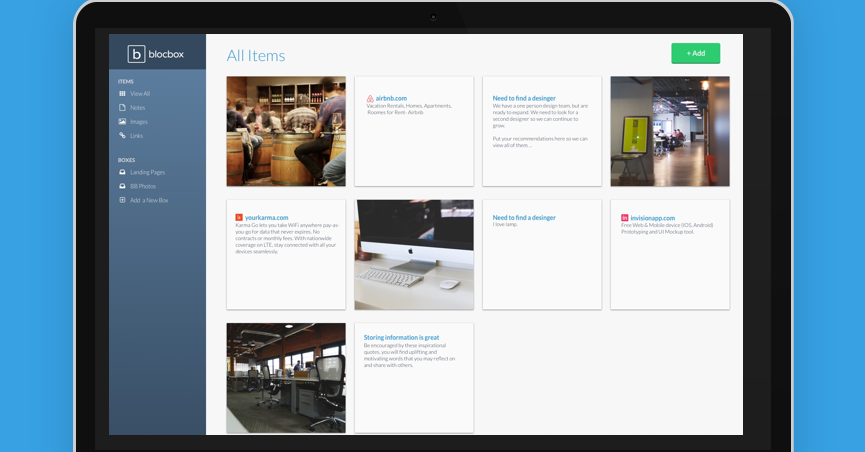
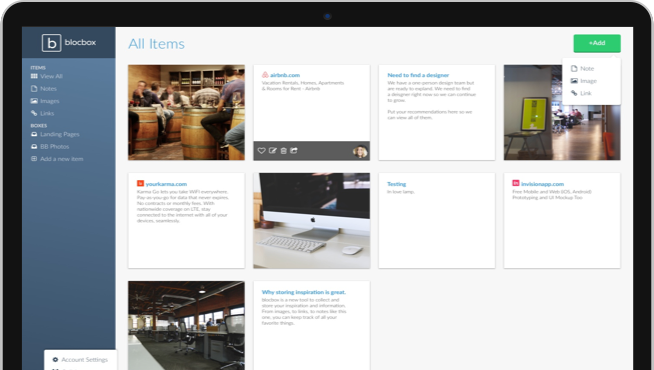
Checkpoint 32 completed

diff --git a/dashboard.html b/dashboard.html
@@ -1,0 +1,115 @@
+<!DOCTYPE html>
+ <html lang="en-us">
+ <head>
+   <meta http-equiv="X-UA-Compatible" content="IE=Edge">
+   <meta name="viewport" content="width=device-width, initial-scale=1">
+   <meta charset="UTF-8">
+
+   <title>Dashboard | Blocbox</title>
+
+   <!-- Google Fonts -->
+   <link href='http://fonts.googleapis.com/css?family=Lato:300,400,700,300italic,400italic,700italic|Varela+Round' rel='stylesheet' type='text/css'>
+
+   <!-- CSS -->
+   <link rel="stylesheet" href="css/normalize.css">
+   <link rel="stylesheet" href="css/style.css">
+   <link rel="stylesheet" href="css/font-awesome.css">
+
+ </head>
+ <body class="dashboard">
+   <!-- LEFT NAV -->
+   <nav id="left-nav" class="left-nav">
+     <a href="#" class="Site-Logo"><img src="images/Site-Logo.png" /></a>
+     <div class="items">
+       <p>Items</p>
+       <ul>
+         <li><a href="#"><i class="fa fa-th-large"></i> All Items</a></li>
+         <li><a href="#"><i class="fa fa-file-o"></i> Notes</a></li>
+         <li><a href="#"><i class="fa fa-picture-o"></i> Images</a></li>
+         <li><a href="#"><i class="fa fa-link"></i> Links</a></li>
+       </ul>
+       <p>Boxes</p>
+       <ul>
+         <li><a href="#"><i class="fa fa-inbox"></i> Landing Pages</a></li>
+         <li><a href="#"><i class="fa fa-inbox"></i> BB Photos</a></li>
+         <li><a href="#"><i class="fa fa-plus-square-o"></i> Add a new box</a></li>
+       </ul>
+     </div>
+     <div class= "settings">
+        <img src="https://s3.amazonaws.com/uifaces/faces/twitter/jsa/128.jpg">
+        <p> Joey Kirk </p>
+        <a href="#"><i class="fa fa-cog"></i></a>
+      </div>
+   </nav>
+   <main role="main">
+  <!-- Benefits -->
+  <section class="content">
+    <div class="container">
+      <div class="header">
+        <h1>All Items</h1>
+        <a href="#" class="btn">+ Add</a>
+      </div>
+    </div>
+    <div class="container">
+      <div class="content-item">
+        <div class="item-box">
+          <img src="https://static.pexels.com/photos/337142/pexels-photo-337142.jpeg">
+        </div>
+      </div>
+      <div class="content-item">
+        <div class="item-box">
+          <h2> <img src="images/airbnb.png"><a href= "#"> airbnb.com </a> </h2>
+          <p>Vacation Rentals, Homes, Apartments &amp;, Roomes for Rent &mdash;- Airbnb </p>
+        </div>
+      </div>
+      <div class="content-item">
+        <div class="item-box">
+          <h2>Need to find a desinger</h2>
+          <p> We have a one person design team, but are ready to expand. We need to look for a second designer so we can continue to grow.
+            Put your recommendations here so we can view all of them...</p>
+        </div>
+      </div>
+      <div class="content-item">
+        <div class="item-box">
+        <img src="https://static.pexels.com/photos/374074/pexels-photo-374074.jpeg">
+        </div>
+      </div>
+      <div class="content-item">
+        <div class="item-box">
+          <h2> <img src="images/karma.png"> <a href= "#"> yourkarma.com </a> </h2>
+          <p>Karma Go lets you take WiFi anywhere pay-as-you-go for data that never expires. No contracts or monthly fees. With nationwide coverage on LTE, stay connected with all your devices seamlessly. </p>
+        </div>
+      </div>
+      <div class="content-item">
+        <div class="item-box">
+          <img src= "https://static.pexels.com/photos/389818/pexels-photo-389818.jpeg">
+        </div>
+      </div>
+      <div class="content-item">
+        <div class="item-box">
+          <h2> Need to find a designer? </h2>
+          <p> I love lamp. </p>
+        </div>
+      </div>
+      <div class="content-item">
+        <div class="item-box">
+          <h2> <img src="images/invision.png"> <a href="#"> invisionapp.com </a> </h2>
+          <p> Free Web and Mobile device (IOS, Android) Prototyping and UI Mockup tool. </p>
+        </div>
+      </div>
+      <div class="content-item">
+        <div class="item-box">
+          <img src= "https://static.pexels.com/photos/256541/pexels-photo-256541.jpeg">
+        </div>
+      </div>
+      <div class="content-item">
+        <div class="item-box">
+          <h2> Storing information is great! </h2>
+          <p> Be encouraged by these inspirational quotes, you will find uplifting and motivating words that you may reflect on and share with others.</p>
+        </div>
+      </div>
+    </div>
+  </section>
+  </main>
+ </body>
+ </html>

diff --git a/index.html b/index.html
@@ -144,34 +144,26 @@
  </li>
 </ul>
 </section>
-<section>
-  <div class= "one-half">
-    <h2> Sign Up </h2>
-      <h2> Start Your Free Trial! </h2>
-    <a href="signup.html" class="btn">Start Your Free Trial!</a>
-    <p> Create notes, save Images and Share Links</p>
-  </div>
-</section>
  </main>
-    <!-- Footer -->
-    <footer>
-      <div class="container footer-nav-block">
-          <div class="left-footer-block one-third">
-            <p class="copyright-block">&copy; 2015. <strong>Blocbox</strong> - All Rights Reserved.</p>
-          </div>
-          <nav class="link-block middle-footer-block one-third">
-            <ul>
-              <li><a href="">Terms</a></li> /
-              <li><a href="">Privacy Policy</a></li> /
-              <li><a href="">Contact Us</a></li> /
-              <li><a href="">About Us</a></li> /
-              <li><a href="">Twitter</a></li>
-            </ul>
-          </nav>
-          <div class="right-footer-block one-third">
-            <img class="logo" src="images/site-logo.png" alt="Blocbox" />
-          </div>
+  <!-- Footer -->
+  <footer>
+   <div class="container footer-nav-block">
+     <div class="left-footer-block one-third">
+       <p class="copyright-block">&copy; 2015. <strong>Blocbox</strong> - All Rights Reserved.</p>
+     </div>
+       <nav class="link-block middle-footer-block one-third">
+         <ul>
+           <li><a href="">Terms</a></li> /
+           <li><a href="">Privacy Policy</a></li> /
+           <li><a href="">Contact Us</a></li> /
+           <li><a href="">About Us</a></li> /
+           <li><a href="">Twitter</a></li>
+         </ul>
+       </nav>
+      <div class="right-footer-block one-third">
+         <img class="Site-Logo"><img src="images/Site-Logo.png" alt="BlocBox"/> </a>
       </div>
-    </footer>
-  </body>
+    </div> 
+ </footer>
+</body>
 </html>

diff --git a/css/style.css b/css/style.css
@@ -291,8 +291,57 @@ header nav ul > li{
   position: relative;
   after: 20px;
   padding:20px;
-  height: 0;
-  margin:0;
   border-width: 30px;
   margin-left: -30px;
  }
+ /*FOOTER*/
+footer {
+  background-color: #34495E;
+  background-image: linear-gradient(to top,
+    #3498DB 0%, #3498DB 50%, #34495E 50%, #34495E 100%);
+  color: #FFFFFF;
+  height:150px;
+  position: relative;
+  overflow: hidden;
+  z-index: 0;
+}
+footer p, footer nav ul{
+  font-size: 14px;
+  font weight: 100;
+  text-align:center;
+  margin: 10px auto 0;
+}
+footer nav ul li{
+  list-style-type: none;
+  display: inline;
+}
+footer nav ul li a{
+  color: #FFFFFF;
+  text-decoration: none;
+}
+footer .right-footer-block{
+  background-color: transparent;
+}
+footer .Site-Logo{
+  padding: 2.35em 0;
+  margin: 0 auto;
+  display: block;
+}
+@media (min-width: 992px){
+  footer{
+    background-color: #3498DB;
+    background-image: linear-gradient(to left,
+      #3498DB 0%, #3498DB 33.33337%, #34495E 33.33337%, #34495E 100%);
+    height: 100px;
+  }
+footer p, footer nav ul {
+  padding: 2em 0;
+  text-align: left;
+  }
+footer .right-footer-black {
+  background-color: #3498DB;
+  }
+footer .Site-Logo {
+  padding: 2em 0 2em 1.5em;
+  }
+}
